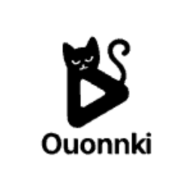
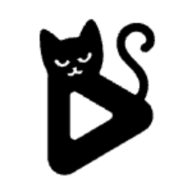
feat: 更换应用Logo为OkiLogo，并更新相关组件样式

Changed region(s): [[0.1875, 0.0938, 0.8125, 0.9375]]

diff --git a/src/App.tsx b/src/App.tsx
@@ -1,4 +1,4 @@
-import { AcmeLogo, SearchIcon } from '@/components/icons'
+import { OkiLogo, SearchIcon } from '@/components/icons'
 import { Button, Input, Chip } from '@heroui/react'
 import { useEffect, useState } from 'react'
 import { motion, AnimatePresence } from 'framer-motion'
@@ -55,14 +55,14 @@ function App() {
             filter: isInputFocused ? 'blur(6px)' : 'blur(0px)',
           }}
           transition={{ duration: 0.4 }}
-          className="mt-[7rem] flex translate-x-[-1rem] items-center gap-2 text-[1.5rem] md:mt-[10rem] md:text-[2rem]"
+          className="mt-[7rem] flex translate-x-[-1rem] items-end gap-2 text-[1.5rem] md:mt-[10rem] md:text-[2rem]"
         >
           <motion.div layoutId="logo-icon">
             <div className="block md:hidden">
-              <AcmeLogo size={48} />
+              <OkiLogo size={48} />
             </div>
             <div className="hidden md:block">
-              <AcmeLogo size={64} />
+              <OkiLogo size={64} />
             </div>
           </motion.div>
           <motion.p layoutId="logo-text" className="font-bold text-inherit">
@@ -81,7 +81,7 @@ function App() {
             width: isInputFocused ? 'min(50rem, 90vw)' : 'min(30rem, 90vw)',
             translateY: isInputFocused ? '-0.5rem' : '0rem',
           }}
-          className="h-fit px-4 md:px-0"
+          className="mt-[1rem] h-fit px-4 md:px-0"
         >
           <Input
             classNames={{

diff --git a/src/components/Navigation.tsx b/src/components/Navigation.tsx
@@ -1,5 +1,5 @@
 import { Navbar, NavbarBrand, NavbarContent, Input } from '@heroui/react'
-import { AcmeLogo, SearchIcon } from '@/components/icons'
+import { OkiLogo, SearchIcon } from '@/components/icons'
 import { NavLink } from 'react-router'
 import { useSearch } from '@/hooks'
 import { motion } from 'framer-motion'
@@ -30,11 +30,11 @@ export default function Navigation() {
       <Navbar>
         <NavbarBrand>
           <NavLink to="/" className="flex items-center gap-2">
-            <motion.div layoutId="app-logo" className="flex items-center gap-2">
+            <motion.div layoutId="app-logo" className="flex items-end gap-2">
               <motion.div layoutId="logo-icon">
-                <AcmeLogo />
+                <OkiLogo />
               </motion.div>
-              <motion.p layoutId="logo-text" className="font-bold text-inherit">
+              <motion.p layoutId="logo-text" className="text-lg font-bold text-inherit">
                 OUONNKI TV
               </motion.p>
             </motion.div>

diff --git a/src/components/icons/index.tsx b/src/components/icons/index.tsx
@@ -1,14 +1,7 @@
-export const AcmeLogo = ({ size = 36, ...props }: { size?: number }) => {
-  return (
-    <svg fill="none" height={size} viewBox="0 0 32 32" width={size} {...props}>
-      <path
-        clipRule="evenodd"
-        d="M17.6482 10.1305L15.8785 7.02583L7.02979 22.5499H10.5278L17.6482 10.1305ZM19.8798 14.0457L18.11 17.1983L19.394 19.4511H16.8453L15.1056 22.5499H24.7272L19.8798 14.0457Z"
-        fill="currentColor"
-        fillRule="evenodd"
-      />
-    </svg>
-  )
+import logoSvg from '../../assets/logo.svg'
+
+export const OkiLogo = ({ size = 36, ...props }: { size?: number }) => {
+  return <img src={logoSvg} alt="Oki Logo" width={size} height={size} {...props} />
 }
 
 export const SearchIcon = ({
